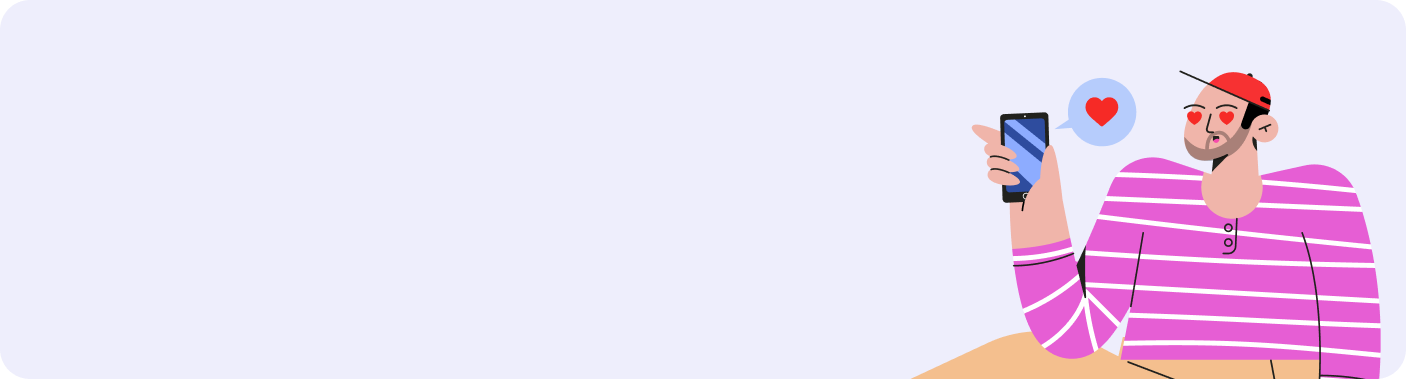
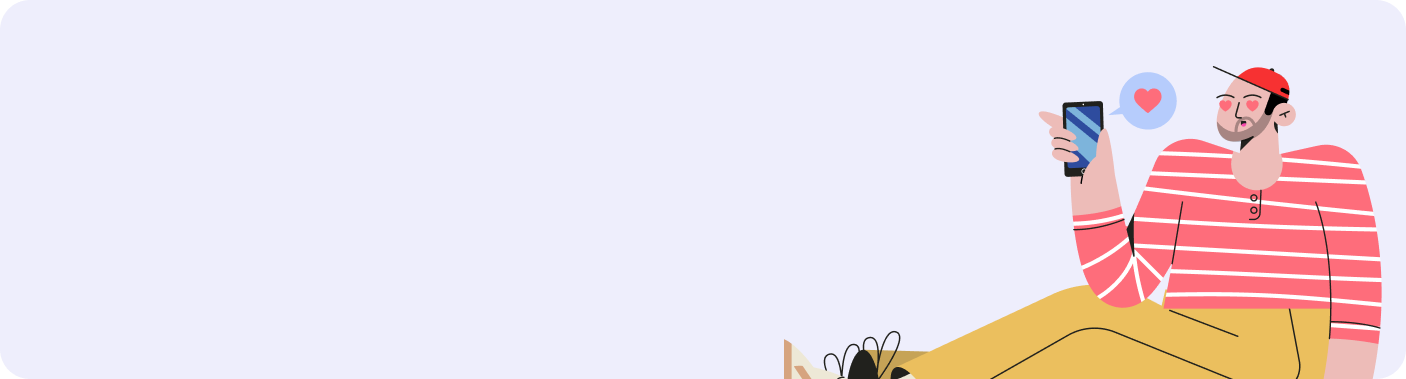
fix: principle headers — unique background images, shorter titles, remove duplicate blockquotes
- Add per-principle background images (10 unique images mapped via CSS classes)
- Shorten long hero titles (P03, P04, P07, P10) with forced line breaks
- Remove duplicate subtitle blockquote below hero section in all 20 MDX files
- Fix footer broken link /overview/manifiesto → /manifesto in config
- Reorganize npm scripts: start=bilingual build+serve, dev=hot-reload single locale
- Add Rule 11 (Bilingual Server for Verification) to governance
- Update orchestrator, i18n-sync skill, and core-rules with new server docs
- Update section header images (vision-general, manifiesto, principios, fases)

Changed region(s): [[0.5505, 0.1741, 1.0, 1.0]]

diff --git a/src/css/custom.css b/src/css/custom.css
@@ -560,8 +560,18 @@ div[class*='announcementBar'] {
 .section-hero--principles { background-image: url('/img/principios.png'); }
 .section-hero--manifesto { background-image: url('/img/manifiesto.png'); }
 .section-hero--principle { background-image: url('/img/principios-listado.png'); }
+.section-hero--principle-01 { background-image: url('/img/The problem is sacred.png'); }
+.section-hero--principle-02 { background-image: url("/img/The client doesn't know what they want, but knows what they feel.png"); }
+.section-hero--principle-03 { background-image: url('/img/Without organizational consensus there is no context.png'); }
+.section-hero--principle-04 { background-image: url('/img/Context Engineering is design, not writing.png'); }
+.section-hero--principle-05 { background-image: url('/img/Building is a symptom, not a goal.png'); }
+.section-hero--principle-06 { background-image: url('/img/Speed is a reward, not a strategy.png'); }
+.section-hero--principle-07 { background-image: url('/img/The market always knows more than you.png'); }
+.section-hero--principle-08 { background-image: url('/img/Iterating is not repeating.png'); }
+.section-hero--principle-09 { background-image: url('/img/Context is a living asset.png'); }
+.section-hero--principle-10 { background-image: url("/img/Clarity is the only luxury you can't afford not to have.png"); }
 
 .section-hero--principle .section-hero__title {
-  font-weight: 600;
+  font-weight: 700;
   font-size: clamp(1.4rem, 3vw, 2.2rem);
 }

diff --git a/docusaurus.config.ts b/docusaurus.config.ts
@@ -269,7 +269,7 @@ const config: Config = {
           title: 'Methodology',
           items: [
             {label: 'Overview', to: '/overview'},
-            {label: 'Manifesto', to: '/overview/manifiesto'},
+            {label: 'Manifesto', to: '/manifesto'},
             {label: 'Principles', to: '/principles'},
             {label: 'Phases', to: '/phases'},
           ],

diff --git a/.instructions/rules/core-rules.md b/.instructions/rules/core-rules.md
@@ -152,6 +152,22 @@ with a clear error message requesting the missing information.
 
 ---
 
+### Rule 11: Bilingual Server for Verification
+
+- **Applies to**: Every verification, testing, or pre-commit check
+- **Context**: Docusaurus `docusaurus start` (dev server) only serves ONE locale. The locale switcher appears in the UI but produces 404s for the other language. This is a Docusaurus design limitation, not a project bug.
+- **Requirement**: Always use `npm run start` (build + serve) for any testing that involves locale switching or bilingual verification. NEVER use `npm run dev` for this purpose.
+- **Scripts**:
+  - `npm run start` → `docusaurus build && docusaurus serve` (bilingual, locale switcher works)
+  - `npm run dev` → `docusaurus start` (single locale, hot-reload, locale switcher broken)
+  - `npm run dev:es` → `docusaurus start --locale es` (Spanish only, hot-reload)
+- **When to use each**:
+  - `npm run start`: Pre-commit verification, locale switcher testing, `sincroniza todo` audit
+  - `npm run dev`: Rapid content editing on a single locale (writing, styling, layout)
+- **Violation**: Any verification report that tested locale switching using `npm run dev` is INVALID. Re-run with `npm run start`.
+
+---
+
 ## Validation Matrix
 
 | Content Type | Exit Criteria | Anti-pattern | 6 Sections | Bidirectional | Frontmatter | Redirect Mapping | Build Verify |

diff --git a/.instructions/orchestrator.md b/.instructions/orchestrator.md
@@ -60,7 +60,12 @@ Speed Theater, Discovery, BMAD, Exit Criteria
 - Default locale: `en` — Spanish is the mirror at `/es/`
 - Docs served from root (`routeBasePath: '/'`)
 - 3 sidebars: `methodologySidebar`, `frameworkSidebar`, `resourcesSidebar`
-- Dev server only serves ONE locale — use `npm run start:full` for bilingual testing
+- **CRITICAL**: Docusaurus dev server (`docusaurus start`) only serves ONE locale. The locale switcher appears but produces 404s for the other language.
+- **Scripts**:
+  - `npm run start` → Build + serve (bilingual, locale switcher works, no hot-reload)
+  - `npm run dev` → Dev server with hot-reload (EN only, locale switcher broken by design)
+  - `npm run dev:es` → Dev server with hot-reload (ES only)
+- **Rule**: Always use `npm run start` for testing. Use `npm run dev` only for rapid iteration on a single locale.
 
 ## Content Structure
 

diff --git a/.instructions/skills/i18n-sync.md b/.instructions/skills/i18n-sync.md
@@ -160,9 +160,9 @@ When a new content section is needed:
 ### 10. Restart Server
 - Kill any process on port 3000: `lsof -ti:3000 | xargs kill -9`
 - Clean cache: `npx docusaurus clear`
-- Build both locales: `npx docusaurus build`
-- Serve: `npx docusaurus serve --port 3000`
+- **ALWAYS use `npm run start`** (build + serve, bilingual). NEVER use `npm run dev` for verification — it only serves one locale and the locale switcher produces 404s.
 - Confirm server is running and report URL `http://localhost:3000`
+- Verify both `http://localhost:3000/` (EN) and `http://localhost:3000/es/` (ES) return 200
 
 ### 11. Locale Switcher Verification
 - For the page(s) just created or modified, verify locale switching works in both directions.
